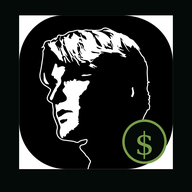
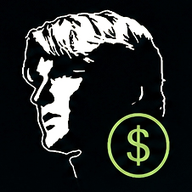
Add files via upload

Changed region(s): [[0.0938, 0.0312, 0.9062, 0.9375], [0.0938, 0.6562, 0.3438, 0.9062], [0.8125, 0.25, 0.875, 0.625]]

diff --git a/style.css b/style.css
@@ -301,3 +301,125 @@ html,body{background:#050d09}
     transform:translateX(-50%);
   }
 }
+
+
+/* ============================================================
+   v1.5 — exact user-supplied splash + clean icon
+   ============================================================ */
+
+.splash.splash-photo{
+  position:fixed !important;
+  inset:0 !important;
+  z-index:120 !important;
+  overflow:hidden !important;
+  background:#020806 !important;
+  display:block !important;
+}
+
+/* No gradient, fade, shade, or vector overlay on the splash. */
+.splash.splash-photo::before,
+.splash.splash-photo::after,
+.splash-shade,
+.splash-scenery{
+  display:none !important;
+  content:none !important;
+  background:none !important;
+  opacity:0 !important;
+}
+
+.splash-picture{
+  position:absolute !important;
+  inset:0 !important;
+  width:100% !important;
+  height:100% !important;
+  display:block !important;
+}
+
+.splash-photo-img{
+  position:absolute !important;
+  inset:0 !important;
+  width:100% !important;
+  height:100% !important;
+  display:block !important;
+  object-fit:cover !important;
+  object-position:center center !important;
+  background:#020806 !important;
+  filter:none !important;
+  opacity:1 !important;
+  mix-blend-mode:normal !important;
+}
+
+/* The visible button is already part of the supplied artwork.
+   This invisible button is the tap target only. */
+.splash-hit-button{
+  position:absolute !important;
+  z-index:4 !important;
+  left:7.25% !important;
+  right:7.25% !important;
+  bottom:max(6.15%, calc(env(safe-area-inset-bottom) + 14px)) !important;
+  height:8.25% !important;
+  min-height:54px !important;
+  border:0 !important;
+  border-radius:18px !important;
+  background:transparent !important;
+  color:transparent !important;
+  font-size:0 !important;
+  box-shadow:none !important;
+  cursor:pointer !important;
+  -webkit-tap-highlight-color:transparent !important;
+}
+
+.splash-hit-button:focus-visible{
+  outline:3px solid rgba(151,194,87,.95) !important;
+  outline-offset:4px !important;
+}
+
+/* Use the supplied black-corner-free icon in the upper-left app header.
+   Rounded corners are done by CSS, not baked into the image. */
+.brand-icon{
+  width:56px !important;
+  height:56px !important;
+  object-fit:cover !important;
+  object-position:center !important;
+  background:#020806 !important;
+  border-radius:14px !important;
+  border:1px solid rgba(122,160,78,.30) !important;
+  box-shadow:none !important;
+  overflow:hidden !important;
+}
+
+/* Preserve the darker forest-green UI direction. */
+:root{
+  --green:#6e9248 !important;
+  --green2:#91b95b !important;
+}
+
+/* Keep the uploaded composition centered on narrow/tall phone screens. */
+@media (max-width:650px){
+  .splash-photo-img{
+    object-fit:cover !important;
+    object-position:center center !important;
+  }
+}
+
+/* On desktop/tablet, preserve the portrait artwork proportions and center it. */
+@media (min-width:651px){
+  .splash.splash-photo{
+    background:#020806 !important;
+  }
+  .splash-picture{
+    left:50% !important;
+    transform:translateX(-50%) !important;
+    width:min(100vw, 540px) !important;
+    right:auto !important;
+  }
+  .splash-photo-img{
+    object-fit:cover !important;
+  }
+  .splash-hit-button{
+    left:50% !important;
+    right:auto !important;
+    width:min(465px,86vw) !important;
+    transform:translateX(-50%) !important;
+  }
+}

diff --git a/404.html b/404.html
@@ -8,18 +8,19 @@
   <meta name="apple-mobile-web-app-status-bar-style" content="black-translucent" />
   <meta name="apple-mobile-web-app-title" content="Expense Equalizer" />
   <meta name="description" content="Eric's Expense Equalizer — Share. Split. Simple." />
-  <link rel="manifest" href="./manifest.webmanifest?v=14" />
-  <link rel="apple-touch-icon" href="./apple-touch-icon.png?v=14" />
-  <link rel="icon" href="./favicon.png?v=14" />
-  <link rel="stylesheet" href="./style.css?v=14" />
+  <link rel="manifest" href="./manifest.webmanifest?v=15" />
+  <link rel="apple-touch-icon" href="./apple-touch-icon.png?v=15" />
+  <link rel="icon" href="./favicon.png?v=15" />
+  <link rel="stylesheet" href="./style.css?v=15" />
   <title>Eric's Expense Equalizer</title>
 </head>
 <body>
   
+
 <section id="splash" class="splash splash-photo" aria-label="Eric's Expense Equalizer welcome screen">
   <picture class="splash-picture" aria-hidden="true">
-    <source srcset="./splash-art@2x.png?v=14 2x, ./splash-art.png?v=14 1x">
-    <img src="./splash-art.png?v=14" alt="" class="splash-photo-img">
+    <source srcset="./splash-art@2x.jpg?v=15 2x, ./splash-art.jpg?v=15 1x">
+    <img src="./splash-art.jpg?v=15" alt="" class="splash-photo-img">
   </picture>
   <button id="startApp" class="splash-hit-button" aria-label="Get Started">Get Started</button>
 </section>
@@ -27,7 +28,7 @@
   <div id="appShell" class="app-shell app-hidden">
     <header class="brand-header">
       <div class="brand-lockup">
-        <img src="./brand-icon.png?v=14" alt="Eric's Expense Equalizer icon" class="brand-icon" />
+        <img src="./brand-icon.jpg?v=15" alt="Eric's Expense Equalizer icon" class="brand-icon" />
         <div>
           <div class="eyebrow">ERIC'S</div>
           <h1>Expense <span>Equalizer</span></h1>
@@ -150,7 +151,7 @@
   </div>
 
   <div id="toast" class="toast" role="status" aria-live="polite"></div>
-  <script src="./app.js?v=14"></script>
+  <script src="./app.js?v=15"></script>
 </body>
 </html>
 

diff --git a/index.html b/index.html
@@ -8,18 +8,19 @@
   <meta name="apple-mobile-web-app-status-bar-style" content="black-translucent" />
   <meta name="apple-mobile-web-app-title" content="Expense Equalizer" />
   <meta name="description" content="Eric's Expense Equalizer — Share. Split. Simple." />
-  <link rel="manifest" href="./manifest.webmanifest?v=14" />
-  <link rel="apple-touch-icon" href="./apple-touch-icon.png?v=14" />
-  <link rel="icon" href="./favicon.png?v=14" />
-  <link rel="stylesheet" href="./style.css?v=14" />
+  <link rel="manifest" href="./manifest.webmanifest?v=15" />
+  <link rel="apple-touch-icon" href="./apple-touch-icon.png?v=15" />
+  <link rel="icon" href="./favicon.png?v=15" />
+  <link rel="stylesheet" href="./style.css?v=15" />
   <title>Eric's Expense Equalizer</title>
 </head>
 <body>
   
+
 <section id="splash" class="splash splash-photo" aria-label="Eric's Expense Equalizer welcome screen">
   <picture class="splash-picture" aria-hidden="true">
-    <source srcset="./splash-art@2x.png?v=14 2x, ./splash-art.png?v=14 1x">
-    <img src="./splash-art.png?v=14" alt="" class="splash-photo-img">
+    <source srcset="./splash-art@2x.jpg?v=15 2x, ./splash-art.jpg?v=15 1x">
+    <img src="./splash-art.jpg?v=15" alt="" class="splash-photo-img">
   </picture>
   <button id="startApp" class="splash-hit-button" aria-label="Get Started">Get Started</button>
 </section>
@@ -27,7 +28,7 @@
   <div id="appShell" class="app-shell app-hidden">
     <header class="brand-header">
       <div class="brand-lockup">
-        <img src="./brand-icon.png?v=14" alt="Eric's Expense Equalizer icon" class="brand-icon" />
+        <img src="./brand-icon.jpg?v=15" alt="Eric's Expense Equalizer icon" class="brand-icon" />
         <div>
           <div class="eyebrow">ERIC'S</div>
           <h1>Expense <span>Equalizer</span></h1>
@@ -150,7 +151,7 @@
   </div>
 
   <div id="toast" class="toast" role="status" aria-live="polite"></div>
-  <script src="./app.js?v=14"></script>
+  <script src="./app.js?v=15"></script>
 </body>
 </html>
 

diff --git a/service-worker.js b/service-worker.js
@@ -1,22 +1,24 @@
-const CACHE='erics-expense-equalizer-v1.4.0';
+const CACHE='erics-expense-equalizer-v1.5.0';
 const CORE=[
   './',
   './index.html',
-  './style.css?v=14',
-  './app.js?v=14',
-  './manifest.webmanifest?v=14',
-  './splash-art.png?v=14',
-  './splash-art@2x.png?v=14',
-  './brand-icon.png?v=14',
-  './icon-192.png?v=14',
-  './icon-512.png?v=14',
-  './apple-touch-icon.png?v=14',
-  './favicon.png?v=14'
+  './style.css?v=15',
+  './app.js?v=15',
+  './manifest.webmanifest?v=15',
+  './splash-art.jpg?v=15',
+  './splash-art@2x.jpg?v=15',
+  './brand-icon.jpg?v=15',
+  './icon-192.png?v=15',
+  './icon-512.png?v=15',
+  './apple-touch-icon.png?v=15',
+  './favicon.png?v=15'
 ];
 
 self.addEventListener('install', event => {
   event.waitUntil(
-    caches.open(CACHE).then(cache => cache.addAll(CORE)).then(() => self.skipWaiting())
+    caches.open(CACHE)
+      .then(cache => cache.addAll(CORE))
+      .then(() => self.skipWaiting())
   );
 });
 
@@ -31,10 +33,12 @@ self.addEventListener('activate', event => {
 self.addEventListener('fetch', event => {
   if (event.request.method !== 'GET') return;
   event.respondWith(
-    fetch(event.request).then(response => {
-      const copy=response.clone();
-      caches.open(CACHE).then(cache=>cache.put(event.request,copy));
-      return response;
-    }).catch(()=>caches.match(event.request).then(hit=>hit || caches.match('./index.html')))
+    fetch(event.request)
+      .then(response => {
+        const copy = response.clone();
+        caches.open(CACHE).then(cache => cache.put(event.request, copy));
+        return response;
+      })
+      .catch(() => caches.match(event.request).then(hit => hit || caches.match('./index.html')))
   );
 });

diff --git a/app.js b/app.js
@@ -1,4 +1,4 @@
-const STORAGE_KEY='eee-pwa-v3';
+const STORAGE_KEY='eee-pwa-v5';
 const blankTrip={id:'trip-initial',name:'My Trip',createdAt:Date.now(),people:[],expenses:[]};
 let state=loadState()||{currentTripId:'trip-initial',trips:[structuredClone(blankTrip)]};
 let editExpenseId=null,editPersonId=null,draftMode='weighted',selected=new Set(),deferredInstall=null;

diff --git a/README.md b/README.md
@@ -1,27 +1,29 @@
-# Eric's Expense Equalizer — Phase 1 v1.4
+# Eric's Expense Equalizer — Phase 1 v1.5
 
 **Share. Split. Simple.**
 
-This build uses the user's approved splash artwork directly. It no longer redraws the
-lake, mountains, trees, typography, or head artwork with simplified SVG/CSS geometry.
+This complete GitHub Pages build uses the two user-supplied image files directly.
 
-## Visual changes in v1.4
+## v1.5 visual fixes
 
-- The approved `Eric's Expense Equalizer copy.png` artwork is used directly as the splash.
-- A 2× display copy is included for high-DPI phone screens.
-- The visible "Get Started" button is part of the approved artwork; the app places an
-  invisible accessible tap target directly over it.
-- App/home-screen icons are rebuilt on a solid dark background so there are no white corner artifacts.
-- Darker forest green is retained throughout the working UI.
-- No example people or example expenses are included.
+- Uses the newly centered `Eric's Expense Equalizer Start Page` artwork directly.
+- Removes all CSS/SVG darkening, fade, shade, and vector overlays from the splash.
+- Uses the newly supplied black-background Eric icon directly.
+- Rounded corners are applied by CSS in the working app header, so the source icon itself
+  stays clean and has no white corner artifacts.
+- Rebuilds the PWA/home-screen icons from the same supplied icon.
+- Keeps the darker forest-green UI.
+- Keeps the app blank by default: no sample people and no sample expenses.
+- Uses a new service-worker cache version to force the updated visual assets.
 
-## GitHub upload
+## Upload to GitHub
 
-Replace your current repository root files with every file from this project folder.
-Keep all files at the repository root.
+Replace the existing repository files with every file inside this folder.
+Upload the files themselves to the ROOT of the repository; do not upload the ZIP as the site.
 
-Then use:
+GitHub Pages:
 Settings → Pages → Deploy from a branch → main → /(root)
 
-After publishing, test in an Incognito/InPrivate window. If the older installed PWA
-still appears on a phone, remove it from the home screen and add the new version again.
+After publishing, test in an Incognito/InPrivate window. If you have an older version
+installed on a phone home screen, remove it and reinstall after v1.5 is live because
+PWA icons and app shells are cached aggressively.
